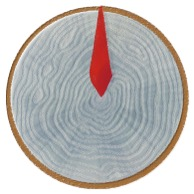
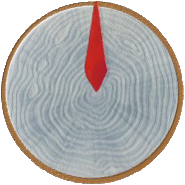
ui final

diff --git a/Source/CustomLookAndFeel.h b/Source/CustomLookAndFeel.h
@@ -5,35 +5,106 @@
 class CustomLookAndFeel : public juce::LookAndFeel_V4
 {
 public:
+    static constexpr float imageScale = 0.5f;
+
     CustomLookAndFeel()
     {
-        knobImage = juce::ImageCache::getFromMemory(BinaryData::knob_png, BinaryData::knob_pngSize);
+        rzhavImage = loadImageFromBinaryData("rzhav_png");
+        pomyatosImage = loadImageFromBinaryData("pomyatos_png");
+        tempoOnImage = loadImageFromBinaryData("tempo_on_png");
+        tempoOffImage = loadImageFromBinaryData("tempo_off_png");
     }
 
     void drawRotarySlider(juce::Graphics& g, int x, int y, int width, int height,
                           float sliderPosProportional, float rotaryStartAngle, float rotaryEndAngle,
                           juce::Slider& slider) override
     {
-        if (! knobImage.isValid())
+        if (slider.getComponentID() == "rzhavSlider" && rzhavImage.isValid())
+        {
+            constexpr float travelUpPx = 130.0f;
+            const float norm = juce::jlimit(0.0f, 1.0f, sliderPosProportional);
+            const float offsetY = -norm * travelUpPx; // 0 -> -240 as value goes 0 -> 1
+            const int scaledWidth = juce::roundToInt(rzhavImage.getWidth() * imageScale);
+            const int scaledHeight = juce::roundToInt(rzhavImage.getHeight() * imageScale);
+            const int imageX = x + (width - scaledWidth) / 2;
+            const float imageY = y + travelUpPx + offsetY;
+
+            g.setImageResamplingQuality(juce::Graphics::highResamplingQuality);
+            g.drawImage(rzhavImage,
+                        imageX, juce::roundToInt(imageY),
+                        scaledWidth, scaledHeight,
+                        0, 0,
+                        rzhavImage.getWidth(), rzhavImage.getHeight());
             return;
+        }
+
+        if (slider.getComponentID() != "sustainSlider" || !pomyatosImage.isValid())
+        {
+            juce::LookAndFeel_V4::drawRotarySlider(g, x, y, width, height,
+                                                   sliderPosProportional,
+                                                   rotaryStartAngle, rotaryEndAngle,
+                                                   slider);
+            return;
+        }
 
         const float rotation = juce::jmap(sliderPosProportional, 0.0f, 1.0f,
                                           juce::degreesToRadians(-110.0f),
                                           juce::degreesToRadians(110.0f));
 
-        const float cx = x + width  * 0.5f;
+        const auto& image = pomyatosImage;
+        const float cx = x + width * 0.5f;
         const float cy = y + height * 0.5f;
-        const float scale = juce::jmin(width, height) / (float) knobImage.getWidth();
 
         juce::AffineTransform transform =
-            juce::AffineTransform::translation(-knobImage.getWidth() * 0.5f, -knobImage.getHeight() * 0.5f)
+            juce::AffineTransform::translation(-image.getWidth() * 0.5f, -image.getHeight() * 0.5f)
+                .scaled(imageScale)
                 .rotated(rotation)
-                .scaled(scale)
                 .translated(cx, cy);
 
-        g.drawImageTransformed(knobImage, transform, false);
+        g.setImageResamplingQuality(juce::Graphics::highResamplingQuality);
+        g.drawImageTransformed(image, transform, false);
+    }
+
+    void drawToggleButton(juce::Graphics& g,
+                          juce::ToggleButton& button,
+                          bool /*shouldDrawButtonAsHighlighted*/,
+                          bool /*shouldDrawButtonAsDown*/) override
+    {
+        const auto& image = button.getToggleState() ? tempoOnImage : tempoOffImage;
+
+        if (image.isValid())
+        {
+            const int scaledWidth = juce::roundToInt(image.getWidth() * 0.45);
+            const int scaledHeight = juce::roundToInt(image.getHeight() * 0.45);
+            const int x = (button.getWidth() - scaledWidth) / 2;
+            const int y = (button.getHeight() - scaledHeight) / 2;
+
+            g.setImageResamplingQuality(juce::Graphics::highResamplingQuality);
+            g.drawImage(image,
+                        x, y,
+                        scaledWidth, scaledHeight,
+                        0, 0,
+                        image.getWidth(), image.getHeight());
+            return;
+        }
+
+        const auto bounds = button.getLocalBounds().toFloat();
+        g.setColour(button.getToggleState() ? juce::Colours::white : juce::Colours::darkgrey);
+        g.fillRoundedRectangle(bounds, 4.0f);
     }
 
 private:
-    juce::Image knobImage;
+    static juce::Image loadImageFromBinaryData(const char* resourceName)
+    {
+        int dataSize = 0;
+        if (const void* data = BinaryData::getNamedResource(resourceName, dataSize))
+            return juce::ImageFileFormat::loadFrom(data, static_cast<size_t>(dataSize));
+
+        return {};
+    }
+
+    juce::Image rzhavImage;
+    juce::Image pomyatosImage;
+    juce::Image tempoOnImage;
+    juce::Image tempoOffImage;
 };

diff --git a/Source/PluginEditor.cpp b/Source/PluginEditor.cpp
@@ -7,13 +7,14 @@ AudioPluginAudioProcessorEditor::AudioPluginAudioProcessorEditor (AudioPluginAud
     : AudioProcessorEditor (&p), processorRef (p)
 {
     juce::ignoreUnused (processorRef);
-    setSize (400, 300);
-    
+    setSize (900, 600);
+
     bgImage = juce::ImageCache::getFromMemory(BinaryData::bg_png, BinaryData::bg_pngSize);
 
     static CustomLookAndFeel customLNF; // static so image is shared
 
     addAndMakeVisible(rzhavSlider);
+    rzhavSlider.setComponentID("rzhavSlider");
     rzhavSlider.setSliderStyle(juce::Slider::RotaryVerticalDrag);
     rzhavSlider.setTextBoxStyle(juce::Slider::NoTextBox, false, 0, 0);
     rzhavSlider.setLookAndFeel(&customLNF);
@@ -23,6 +24,7 @@ AudioPluginAudioProcessorEditor::AudioPluginAudioProcessorEditor (AudioPluginAud
     processorRef.parameters, "rzhavchina", rzhavSlider);
 
     addAndMakeVisible(sustainSlider);
+    sustainSlider.setComponentID("sustainSlider");
     sustainSlider.setSliderStyle(juce::Slider::RotaryVerticalDrag);
     sustainSlider.setTextBoxStyle(juce::Slider::NoTextBox, false, 0, 0);
     sustainSlider.setLookAndFeel(&customLNF);
@@ -30,6 +32,12 @@ AudioPluginAudioProcessorEditor::AudioPluginAudioProcessorEditor (AudioPluginAud
     sustainSlider.setMouseDragSensitivity(150);
     sustainAttachment = std::make_unique<juce::AudioProcessorValueTreeState::SliderAttachment>(
     processorRef.parameters, "sustainShorten", sustainSlider);
+
+    addAndMakeVisible(warpButton);
+    warpButton.setButtonText({});
+    warpButton.setLookAndFeel(&customLNF);
+    warpAttachment = std::make_unique<juce::AudioProcessorValueTreeState::ButtonAttachment>(
+    processorRef.parameters, "warpEnabled", warpButton);
 }
 
 AudioPluginAudioProcessorEditor::~AudioPluginAudioProcessorEditor()
@@ -47,6 +55,10 @@ void AudioPluginAudioProcessorEditor::paint (juce::Graphics& g)
 
 void AudioPluginAudioProcessorEditor::resized()
 {
-    rzhavSlider.setBounds(300, 100, 55, 55);
-    sustainSlider.setBounds(220, 100, 55, 55);
+    constexpr int controlWidth = 200;
+    constexpr int controlHeight = 200;
+
+    rzhavSlider.setBounds(68, -140, 380, 900);
+    sustainSlider.setBounds(549, 183, controlWidth, controlHeight);
+    warpButton.setBounds(23, 18, 170, 110);
 }

diff --git a/Source/PluginEditor.h b/Source/PluginEditor.h
@@ -16,11 +16,13 @@ public:
     // juce::Slider sampleRateSlider;
     juce::Slider rzhavSlider;
     juce::Slider sustainSlider;
+    juce::ToggleButton warpButton;
     std::unique_ptr<juce::AudioProcessorValueTreeState::SliderAttachment> rzhavAttachment;
 
     // std::unique_ptr<juce::AudioProcessorValueTreeState::SliderAttachment> bitDepthAttachment;
     // std::unique_ptr<juce::AudioProcessorValueTreeState::SliderAttachment> sampleRateAttachment;
     std::unique_ptr<juce::AudioProcessorValueTreeState::SliderAttachment> sustainAttachment;
+    std::unique_ptr<juce::AudioProcessorValueTreeState::ButtonAttachment> warpAttachment;
     juce::Image bgImage;
 
 private:
